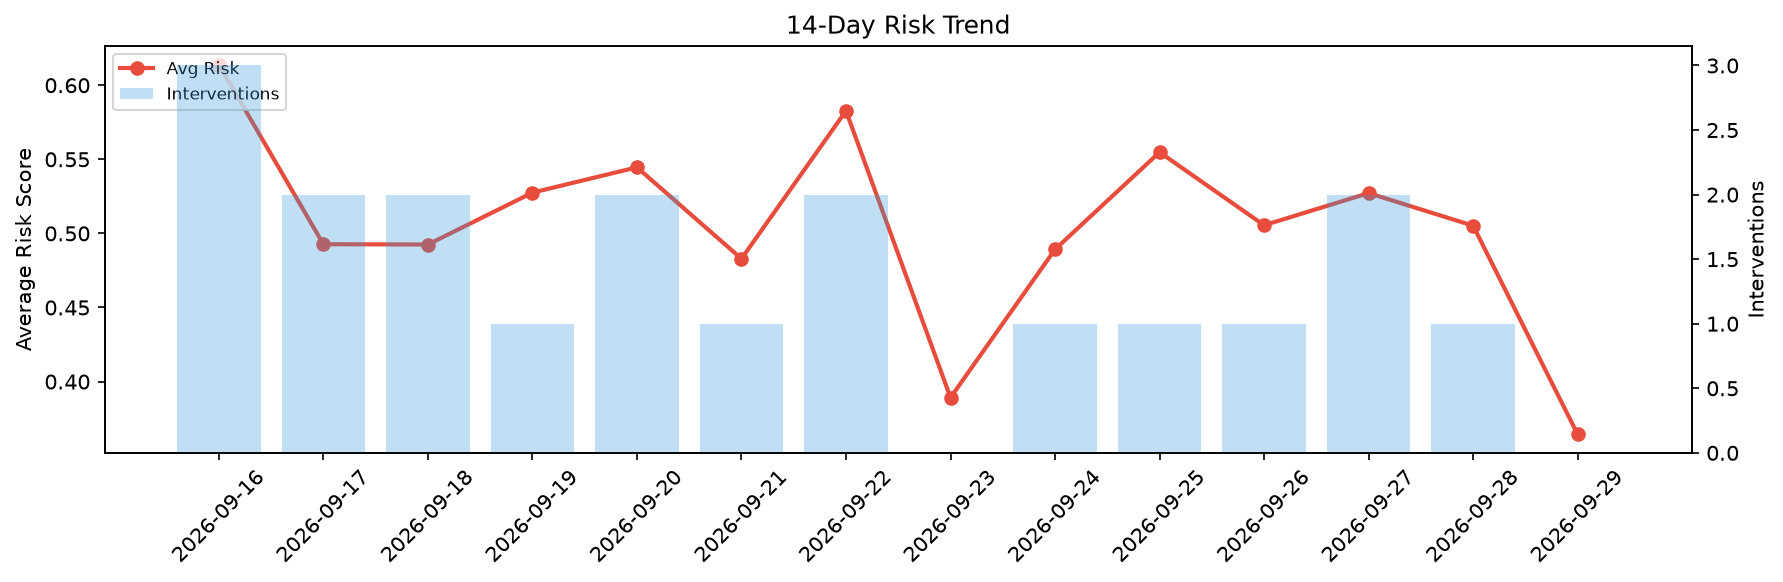
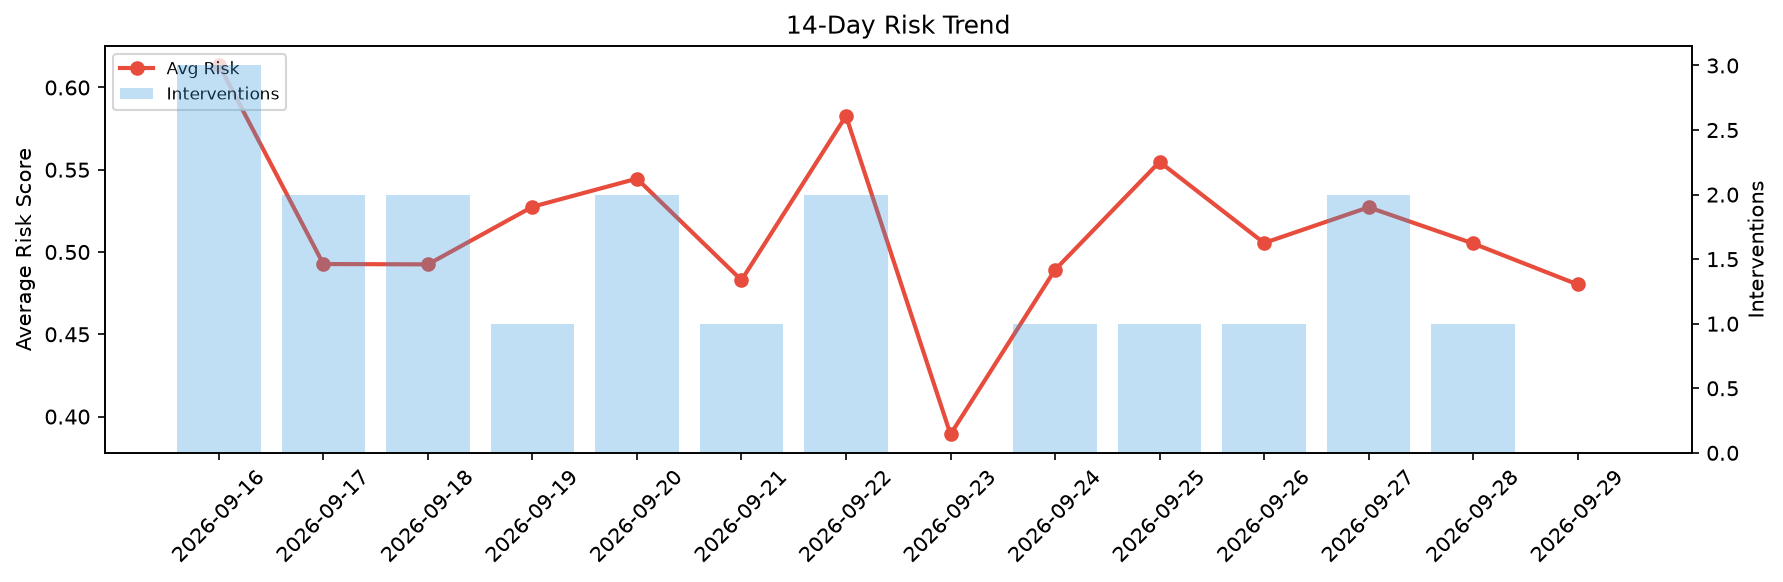
agent-improvement: daily cycle 2026-09-29T23:41

diff --git a/logs/2026-09-29.md b/logs/2026-09-29.md
@@ -1,6 +1,6 @@
 # Agent Improvement Report — 2026-09-29
 
-**Cycle ID:** `69c77c6b` | **Avg Risk:** 0.3644 | **Interventions:** 0/4
+**Cycle ID:** `3caaefcc` | **Avg Risk:** 0.4803 | **Interventions:** 0/4
 
 ![Dashboard](2026-09-29_dashboard.png)
 
@@ -10,18 +10,18 @@
 
 | Domain | Risk Score | Decision | Alerts |
 |--------|-----------|----------|--------|
-| code_review | 0.1644 | monitor | none |
-| incident_response | 0.2552 | monitor | none |
-| data_pipeline | 0.5372 | monitor | volume_anomaly |
-| deployment | 0.5009 | monitor | rollback_rate |
+| code_review | 0.357 | monitor | none |
+| incident_response | 0.4685 | monitor | none |
+| data_pipeline | 0.5207 | monitor | freshness |
+| deployment | 0.5748 | monitor | rollback_rate |
 
 ## Delta vs Yesterday
 
 | Domain | Today | Yesterday | Change |
 |--------|-------|-----------|--------|
-| code_review | 0.1644 | 0.5069 | 📉 -67.6% |
-| incident_response | 0.2552 | 0.6934 | 📉 -63.2% |
-| data_pipeline | 0.5372 | 0.4161 | 📈 29.1% |
-| deployment | 0.5009 | 0.4045 | 📈 23.8% |
+| code_review | 0.357 | 0.5069 | 📉 -29.6% |
+| incident_response | 0.4685 | 0.6934 | 📉 -32.4% |
+| data_pipeline | 0.5207 | 0.4161 | 📈 25.1% |
+| deployment | 0.5748 | 0.4045 | 📈 42.1% |
 
 **Refinement:** `{'adjustment': 'tighten_thresholds', 'trend': 'degrading', 'window': 4}`
